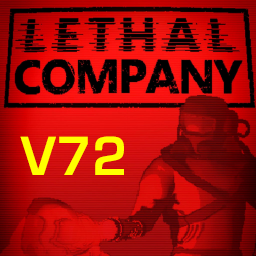
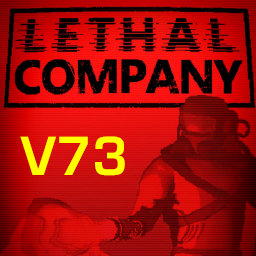
Bump v1.7.0

Changed region(s): [[0.3438, 0.5312, 0.5, 0.6875]]

diff --git a/CHANGELOG.md b/CHANGELOG.md
@@ -1,3 +1,19 @@
+## v1.7.0
+
+Support for version 73  
+Most mods are functional  
+Some mods may not work correctly or may contain bugs  
+Stay tuned for upcoming updates
+
+All mods updated to their latest versions  
+The following mods updated:
+
+- Mirage will be updated to: `1.27.0`
+- CullFactory will be updated to: `2.0.2`
+- PathfindingLib will be updated to: `2.4.1`
+- DawnLib will be updated to: `0.3.2`
+
+
 ## v1.6.7
 
 All mods updated to their latest versions  

diff --git a/README.md b/README.md
@@ -3,6 +3,6 @@
 ![GitHub Downloads](https://img.shields.io/github/downloads/boxden/FlyoneCompany/total)
 ![GitHub Release](https://img.shields.io/github/v/release/boxden/FlyoneCompany)
 
-Modpack for Lethal Company v72
+Modpack for Lethal Company v73
 
-Profile code: `0199d361-1c86-25b6-10d4-db4402daef34`
+Profile code: `0199d840-c015-6f81-a54c-c8ade161349e`
